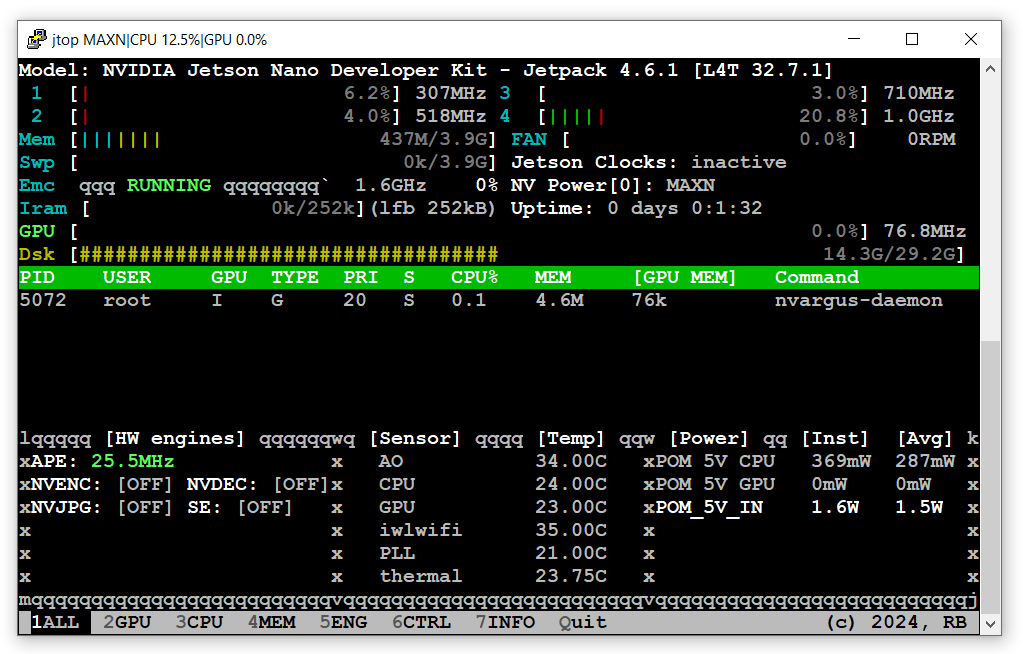
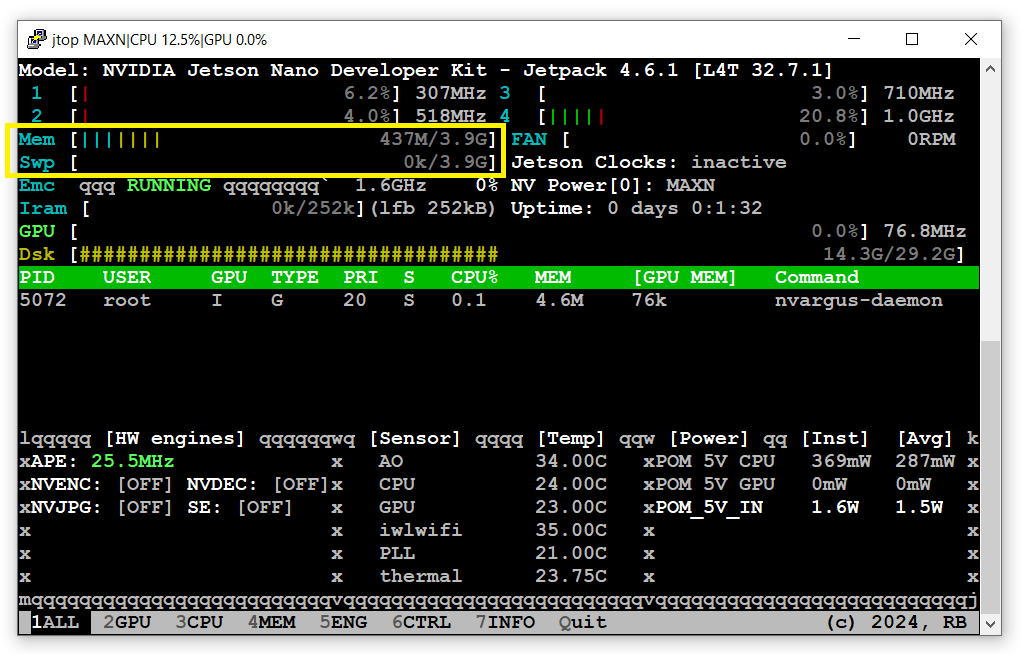
update-readme

Changed region(s): [[0.0, 0.1835, 0.5152, 0.2752]]

diff --git a/Enlarge-Swap/README.md b/Enlarge-Swap/README.md
@@ -102,3 +102,23 @@ In this Tutorial we will see how to enlarge size of swap memory of Jetson Nano
 <img src="/Enlarge-Swap/screenshots/swap15.png" width="450" height="350"> 
   
 </br>
+  
+9. Reboot the board for changes to take effect
+  ```
+  sudo reboot now
+  
+  ```
+  
+<img src="/Enlarge-Swap/screenshots/swap16.png" width="450" height="350"> 
+  
+</br>
+  
+10. After Reboot check the swap size using jtop command
+  ```
+  jtop
+  
+  ```
+  
+<img src="/Enlarge-Swap/screenshots/swap17.png" width="450" height="350"> 
+  
+</br>
